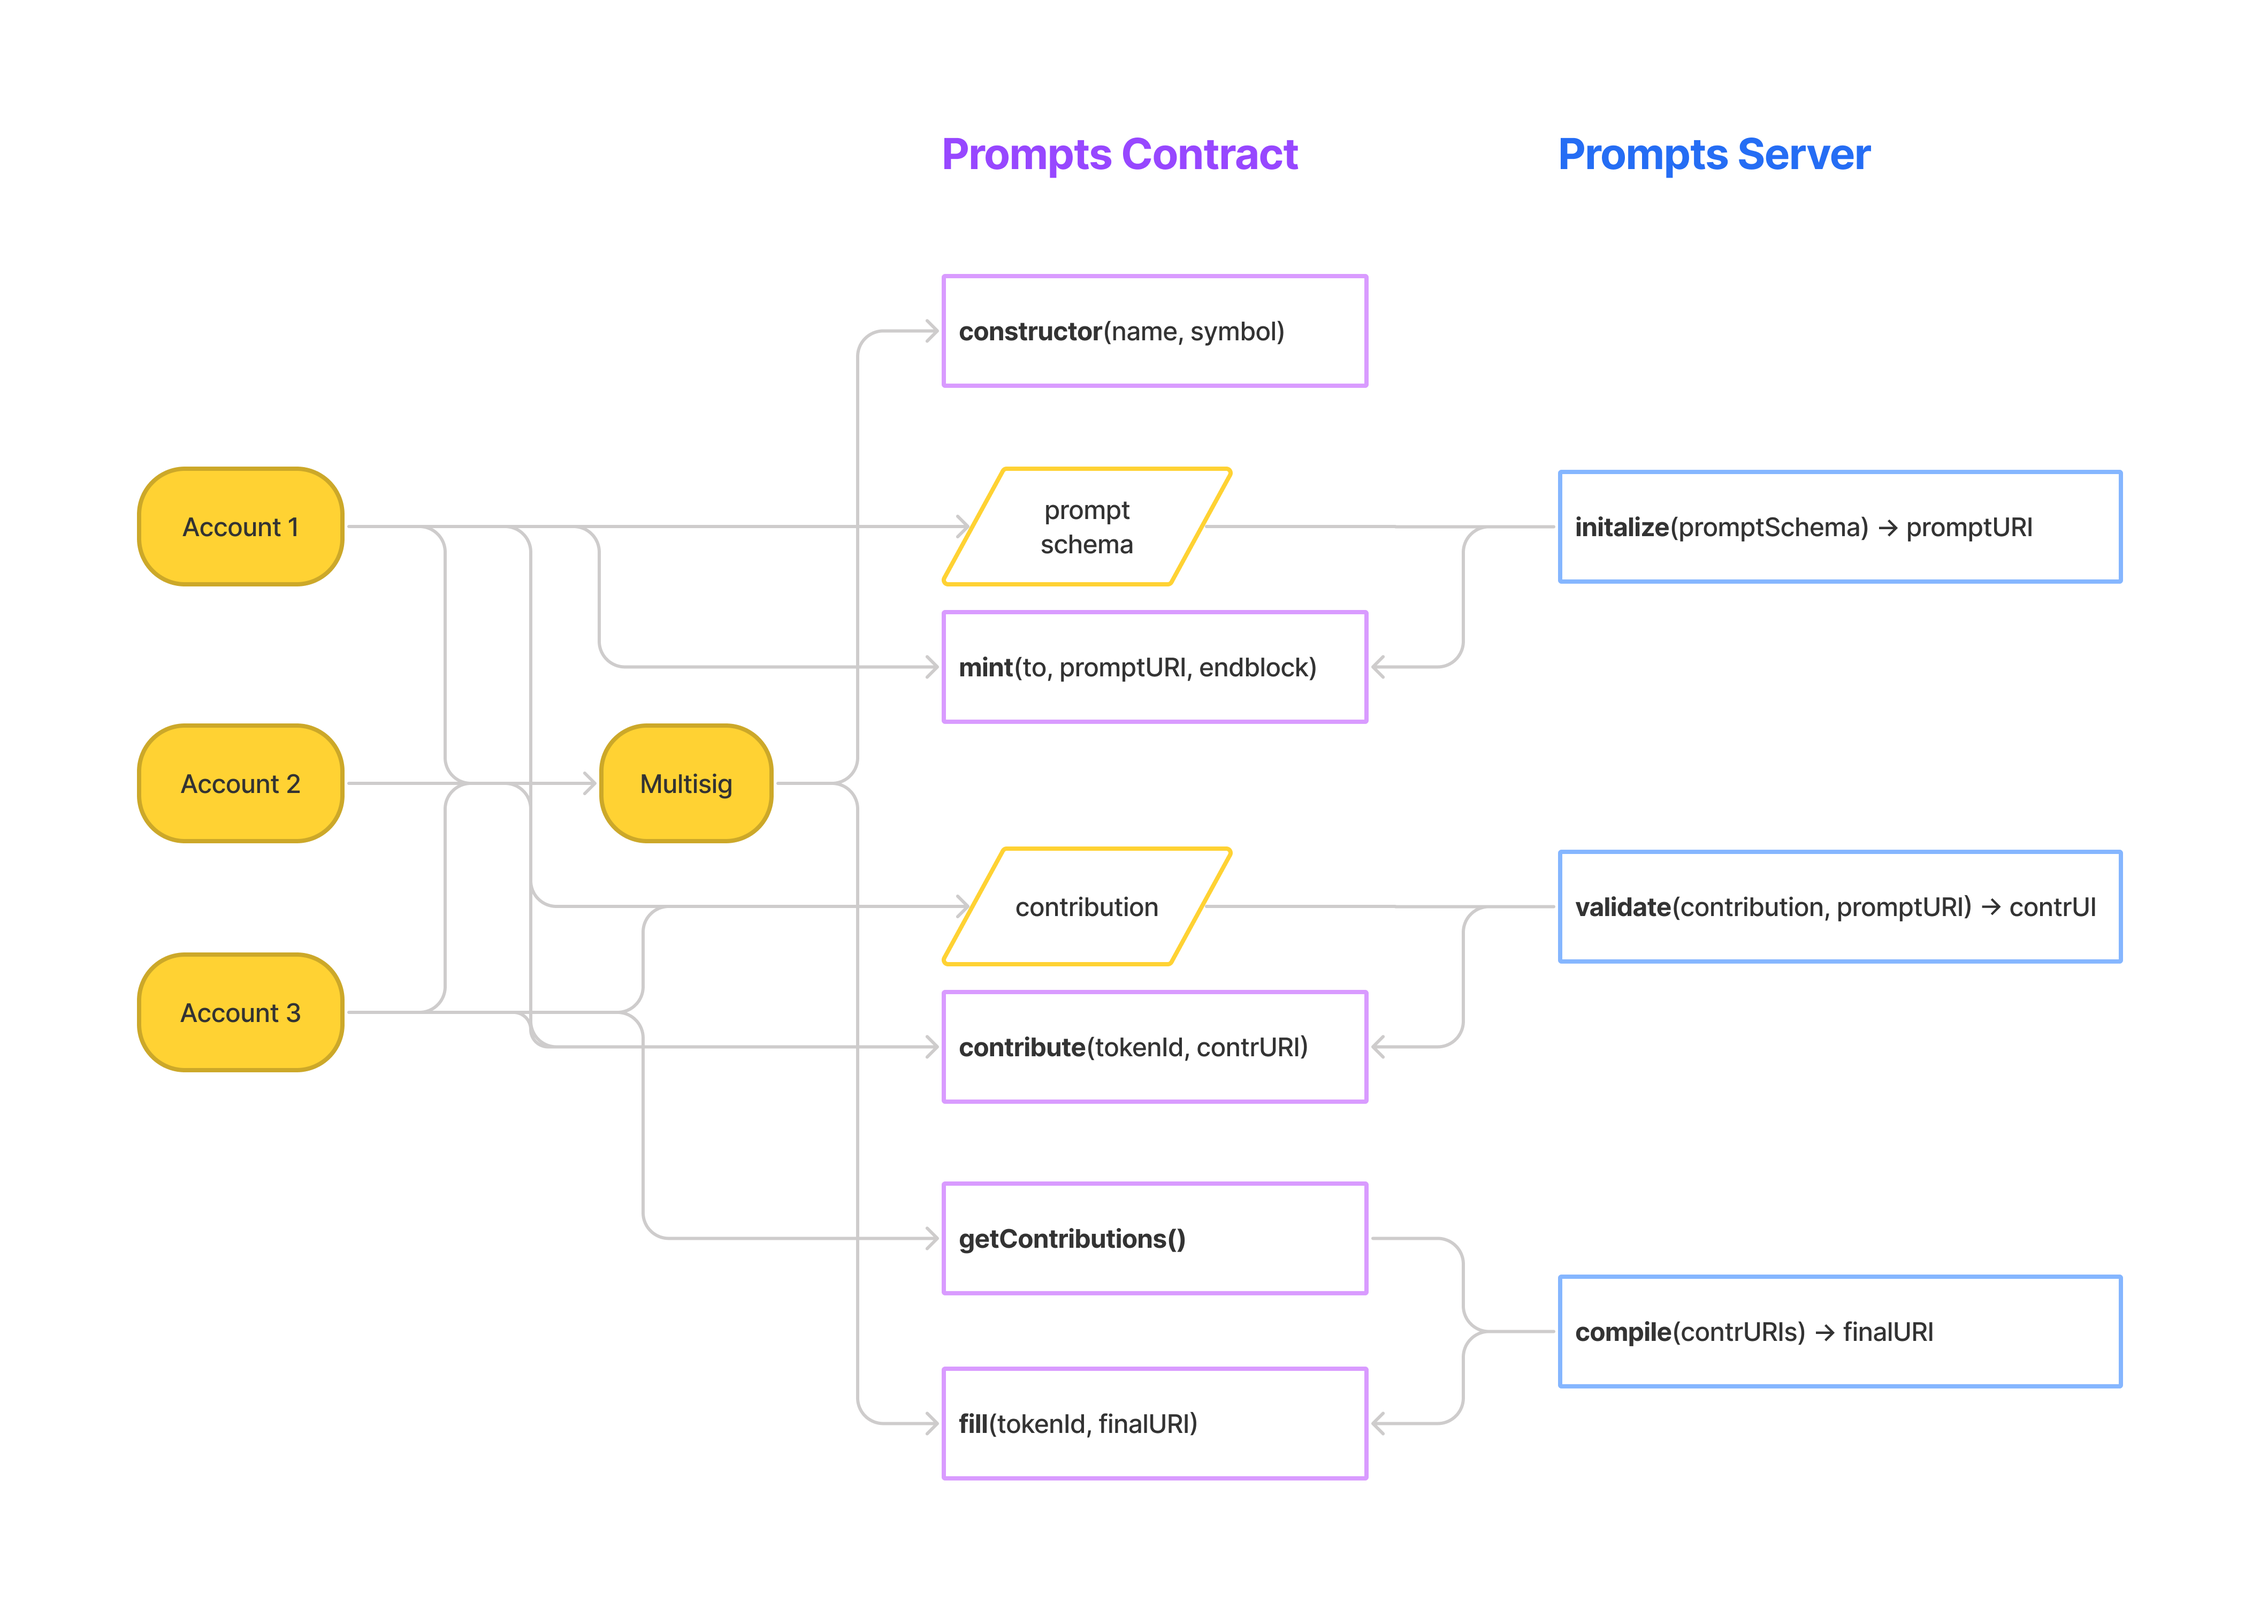
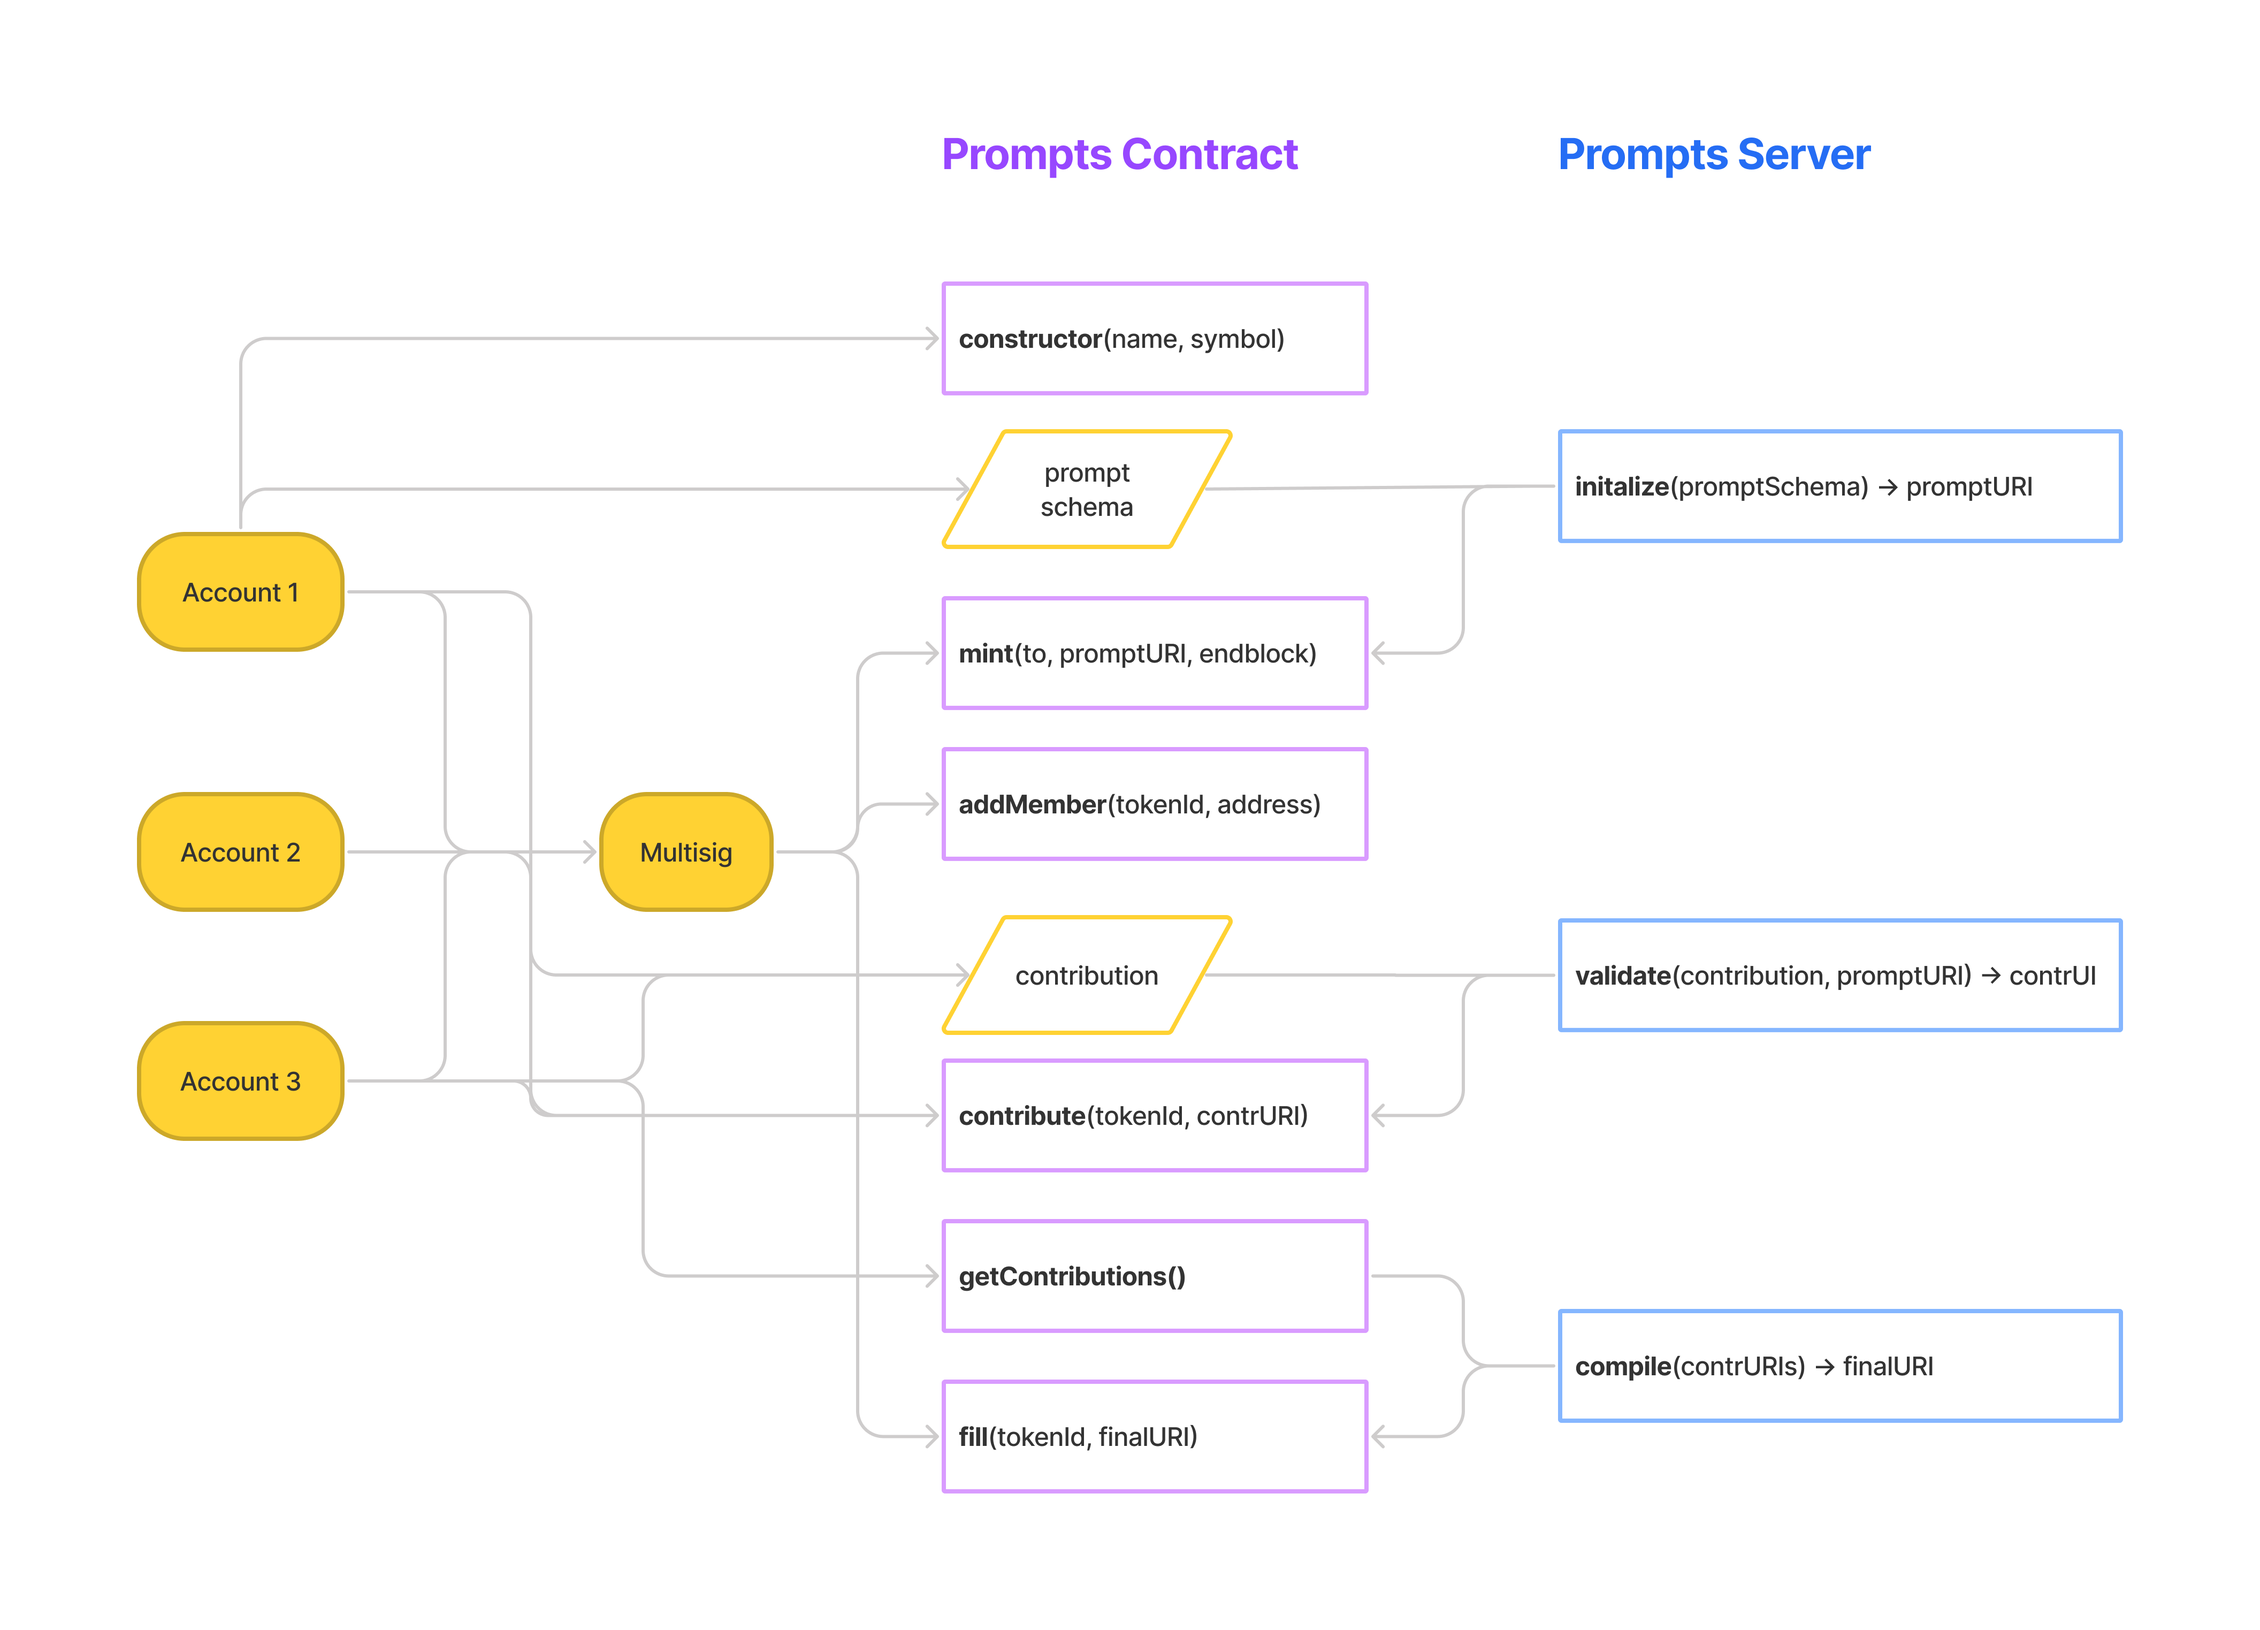
Prompts with control

diff --git a/test/prompts.test.js b/test/prompts.test.js
@@ -18,20 +18,21 @@ const contributionId_2 = 2;
 const contributionURI_0 = "https://zero...";
 const contributionURI_1 = "https://one...";
 const contributionURI_2 = "https://two...";
-const contributionURIs = [contributionURI_0, contributionURI_1, contributionURI_2];
+const contributionURIs = [contributionURI_0, contributionURI_1];
 
 let Prompt;
 let prompt;
 let owner;
 let addr1;
 let addr2;
+let addr3;
 let addrs;
 
 describe('Prompt contract', function () {
 
     before(async function () {
         Prompt = await ethers.getContractFactory(name);
-        [owner, addr1, addr2, ...addrs] = await ethers.getSigners();
+        [owner, addr1, addr2, addr3, ...addrs] = await ethers.getSigners();
 
         prompt = await Prompt.deploy(name, symbol);
         await prompt.deployed();
@@ -66,14 +67,20 @@ describe('Prompt contract', function () {
             expect(await prompt.tokenURI(tokenId)).to.equal('');
         });
 
-        it("has a member", async function () {
-            expect(await prompt.isMember(tokenId, owner.address)).to.be.true;
+        it("minter is the owner", async function () {
+            expect(await prompt.isOwner(tokenId, owner.address)).to.be.true;
         });
 
-        it("a member can add a new member", async function () {
+        it("owner can add a new member", async function () {
             await expect(prompt.addMember(tokenId, addr1.address))
                 .to.emit(prompt, "MemberAdded")
                 .withArgs(tokenId, addr1.address);
+        });
+
+        it("owner can add another member", async function () {
+            await expect(prompt.addMember(tokenId, addr2.address))
+                .to.emit(prompt, "MemberAdded")
+                .withArgs(tokenId, addr2.address);
         });
 
         it("has multiple members", async function () {
@@ -81,24 +88,30 @@ describe('Prompt contract', function () {
         });
 
         it("a member can contribute", async function () {
-            await expect(prompt.contribute(tokenId, contributionURI_0))
+            const promptCallFromMember = await prompt.connect(addr1);
+            await expect(promptCallFromMember.contribute(tokenId, contributionURI_0))
             .to.emit(prompt, "Contributed")
-            .withArgs(tokenId, contributionId_0, contributionURI_0, owner.address);
+            .withArgs(tokenId, contributionId_0, contributionURI_0, addr1.address);
         });
 
         it("another member can contribute", async function () {
-            const promptCallFromOther = await prompt.connect(addr1);
-           await expect(promptCallFromOther.contribute(tokenId, contributionURI_1))
-            .to.emit(prompt, "Contributed")
-           .withArgs(tokenId, contributionId_1, contributionURI_1, addr1.address);
+            const promptCallFromOther = await prompt.connect(addr2);
+            await expect(promptCallFromOther.contribute(tokenId, contributionURI_1))
+                .to.emit(prompt, "Contributed")
+                .withArgs(tokenId, contributionId_1, contributionURI_1, addr2.address);
         });
 
-        it("a non-member can contribute", async function () {
-            const promptCallFromNonmember = await prompt.connect(addr2);
-           await expect(promptCallFromNonmember.contribute(tokenId, contributionURI_2))
-            .to.emit(prompt, "Contributed")
-           .withArgs(tokenId, contributionId_2, contributionURI_2, addr2.address);
+        it("non-members cannot contribute", async function () {
+            await expect(prompt.connect(addr3).contribute(tokenId, contributionURI_2))
+            .to.be.reverted;
         });
+
+        // it("a non-member can contribute", async function () {
+        //     const promptCallFromNonmember = await prompt.connect(addr3);
+        //    await expect(promptCallFromNonmember.contribute(tokenId, contributionURI_2))
+        //     .to.emit(prompt, "Contributed")
+        //    .withArgs(tokenId, contributionId_2, contributionURI_2, addr3.address);
+        // });
 
         it("get all contribution URIs", async function () {
             expect(await prompt.getContributions(tokenId))

diff --git a/README.md b/README.md
@@ -1,15 +1,18 @@
 ## Introduction
 
-Prompts is a Solidity smart contract extending ERC721 with duration and verified contributions. It enables collective performance NFTs.
+Prompts is a Solidity smart contract extending ERC721 with empty NFT initialization, duration, and verified contributors. It enables NFTs for collective performances.
 
-In the current version, a multisig account deploys the Prompts contract and becomes the owner. By calling this contract, anyone can mint a Prompt as an empty NFT, anyone can contribute to this prompt, and only the multisig owner can fill / finalize the prompt.
+In the current version, we assume the following scenario:
+1. Summon contributors, create a multisig for all
+2. Multisig mints an empty NFT, becomes the owner
+3. Multisig adds members
+4. *art happens here* (contributor membership is checked)
+5. The owner multisig updates NFT with final URI
 
 The Prompt server (to be implemented) will do the following:
-- initalize a prompt based on the submitted `promptSchema` and return a `promptURI`
-- validate a `contribution` against the `promptSchema` and return a `contributionURI`
-- compile all `contributions` and return a `finalURI`, which will be the `tokenURI`
-
-Since anyone can contribute, non-validated contributions can be added to the contract. However, only the contract owner can fill to finalize the prompt. So the owner can make sure only valid contributions are added to the final compilation.
+1. Initalize a prompt based on the submitted `promptSchema` and return a `promptURI`
+2. Validate a `contribution` against the `promptSchema` and return a `contributionURI`
+3. Compile all `contributions` and return a `finalURI`, which will be the `tokenURI`
 
 <div align="center">
   <img src="Prompts-diagram.png?raw=true">
@@ -49,12 +52,13 @@ Prompt contract
  Prompt
    ✓ mints a token
    ✓ is an empty NFT
-   ✓ has a member
-   ✓ a member can add a new member
+   ✓ minter is the owner
+   ✓ owner can add a new member
+   ✓ owner can add another member
    ✓ has multiple members
    ✓ a member can contribute
    ✓ another member can contribute
-   ✓ a non-member can contribute
+   ✓ non-members cannot contribute
    ✓ get all contribution URIs
    ✓ owner can fill NFT / set tokenURI
    ✓ is a filled NFT
